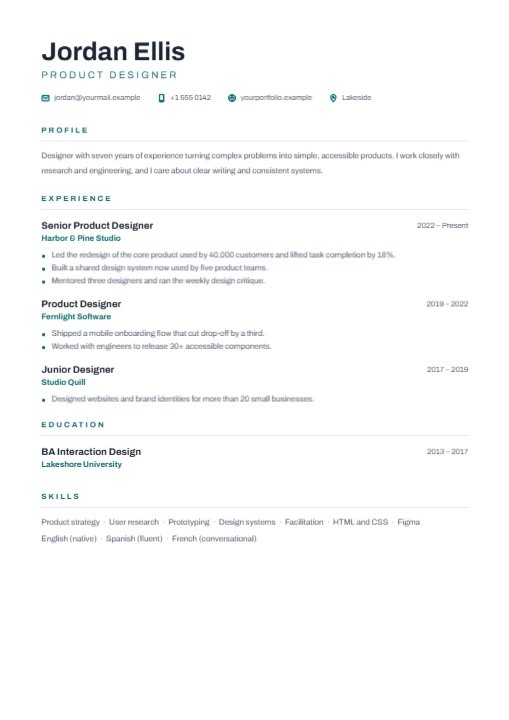
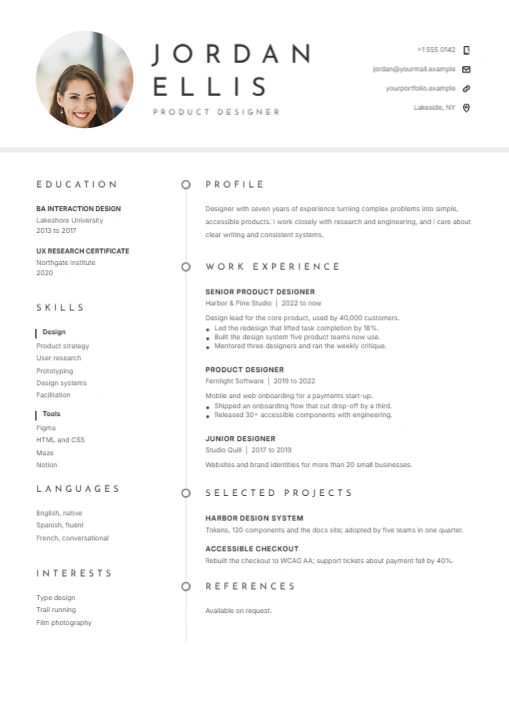
Resume template after the most-reviewed resume templates
A round photo, the name in light spaced capitals, contacts with icons
on the right, then two columns along a fine timeline: education,
skills, languages and interests on the left; profile, experience,
projects and references on the right.

diff --git a/frontend/scripts/templates/designs/modernResume.ts b/frontend/scripts/templates/designs/modernResume.ts
@@ -1,111 +1,164 @@
 import { DocBuilder, type PageBuilder } from '../kit'
+import type { IconName } from '../icons'
 import type { TemplateDesign } from '../registry'
 
-// Single column, one accent, clean sans and generous spacing: what recruiters and resume parsers read best.
+// After the most-reviewed resume templates: a round photo, the name in light, widely spaced capitals, the contacts on the
+// right with icons, then two columns on either side of a fine timeline (education and skills on the left, profile and
+// experience on the right), with small spaced headings in grey.
 const W = 794
 const H = 1123
-const X0 = 64
-const COL = W - X0 * 2
-const INK = '#1d2433'
-const MUTED = '#4f586a'
-const ACCENT = '#0f6b6b'
-const RULE = '#d9dee6'
+const L = 56
+const LEFT_W = 196
+const LINE_X = 290
+const R = 320
+const RIGHT_W = W - R - 56
+const INK = '#2f3033'
+const MUTED = '#5c5f66'
+const RULE = '#d7d9dd'
 const WHITE = '#ffffff'
 
 interface Job {
   role: string
   company: string
   dates: string
+  summary: string
   bullets: string[]
 }
 
 const JOBS: Job[] = [
   {
-    role: 'Senior Product Designer',
+    role: 'Senior product designer',
     company: 'Harbor & Pine Studio',
-    dates: '2022 – Present',
-    bullets: [
-      'Led the redesign of the core product used by 40,000 customers and lifted task completion by 18%.',
-      'Built a shared design system now used by five product teams.',
-      'Mentored three designers and ran the weekly design critique.',
-    ],
+    dates: '2022 to now',
+    summary: 'Design lead for the core product, used by 40,000 customers.',
+    bullets: ['Led the redesign that lifted task completion by 18%.', 'Built the design system five product teams now use.', 'Mentored three designers and ran the weekly critique.'],
   },
   {
-    role: 'Product Designer',
+    role: 'Product designer',
     company: 'Fernlight Software',
-    dates: '2019 – 2022',
-    bullets: ['Shipped a mobile onboarding flow that cut drop-off by a third.', 'Worked with engineers to release 30+ accessible components.'],
+    dates: '2019 to 2022',
+    summary: 'Mobile and web onboarding for a payments start-up.',
+    bullets: ['Shipped an onboarding flow that cut drop-off by a third.', 'Released 30+ accessible components with engineering.'],
   },
   {
-    role: 'Junior Designer',
+    role: 'Junior designer',
     company: 'Studio Quill',
-    dates: '2017 – 2019',
-    bullets: ['Designed websites and brand identities for more than 20 small businesses.'],
+    dates: '2017 to 2019',
+    summary: 'Websites and brand identities for more than 20 small businesses.',
+    bullets: [],
   },
 ]
 
-function heading(p: PageBuilder, y: number, label: string): number {
-  p.text({ name: `${label} heading`, x: X0, y, w: COL, text: label, font: 'archivo', bold: true, size: 12, color: ACCENT, on: WHITE, spacing: 260, upper: true, lines: 1 })
-  p.line({ name: `${label} rule`, x1: X0, y1: y + 24, x2: X0 + COL, y2: y + 24, color: RULE, width: 1 })
-  return y + 40
+function heading(p: PageBuilder, x: number, y: number, w: number, label: string, dot: boolean): void {
+  p.text({ name: `${label} heading`, x, y, w, text: label, font: 'josefin', size: 14, color: INK, on: WHITE, upper: true, spacing: 360, lines: 1 })
+  if (dot) p.circle({ name: `${label} dot`, cx: LINE_X, cy: y + 8, r: 6, fill: WHITE, stroke: INK, strokeWidth: 1.4 })
 }
 
 export const modernResume: TemplateDesign = {
   slug: 'modern-resume',
   title: 'Modern resume',
   category: 'resumes',
-  tags: ['resume', 'cv', 'job', 'career', 'a4', 'ats', 'minimal'],
-  description: 'A clean single-column A4 resume with one accent colour, easy for people and resume parsers to read: profile, experience, education and skills.',
+  tags: ['resume', 'cv', 'job', 'career', 'a4', 'photo', 'minimal', 'two column'],
+  description: 'An elegant two-column A4 resume with a round photo: the name in spaced capitals, contacts with icons, and experience along a fine timeline.',
   preset: 'a4',
-  build() {
+  async build() {
     const doc = new DocBuilder(this.slug, { width: W, height: H, unit: 'mm', presetId: 'a4' })
     const p = doc.page('Resume', { type: 'solid', color: WHITE })
 
-    // Header.
-    p.text({ name: 'Name', x: X0, y: 58, w: COL, text: 'Jordan Ellis', font: 'archivo', bold: true, size: 40, color: INK, on: WHITE, lh: 1.1, lines: 1 })
-    p.text({ name: 'Job title', x: X0, y: 108, w: COL, text: 'Product designer', font: 'archivo', size: 15, color: ACCENT, on: WHITE, spacing: 240, upper: true, lines: 1 })
-    const contacts = [
-      { icon: 'mail' as const, text: 'jordan@yourmail.example' },
-      { icon: 'phone' as const, text: '+1 555 0142' },
-      { icon: 'globe' as const, text: 'yourportfolio.example' },
-      { icon: 'pin' as const, text: 'Lakeside' },
+    // Header: photo, name, title, contacts.
+    await p.photo({ name: 'Photo', file: 'resume-portrait.webp', x: L, y: 48, w: 152, h: 152, mask: 'circle', focusX: 0.52, focusY: 0.1, zoom: 2.4 })
+    p.text({ name: 'Name', x: 236, y: 62, w: 330, text: 'Jordan\nEllis', font: 'josefin', size: 40, color: INK, on: WHITE, upper: true, spacing: 420, lh: 1.15, lines: 2 })
+    p.text({ name: 'Job title', x: 238, y: 168, w: 330, text: 'Product designer', font: 'josefin', size: 12, color: MUTED, on: WHITE, upper: true, spacing: 400, lines: 1 })
+    const contacts: { icon: IconName; text: string }[] = [
+      { icon: 'phone', text: '+1 555 0142' },
+      { icon: 'mail', text: 'jordan@yourmail.example' },
+      { icon: 'link', text: 'yourportfolio.example' },
+      { icon: 'pin', text: 'Lakeside, NY' },
     ]
-    let cx = X0
-    contacts.forEach((c) => {
-      p.icon({ name: `${c.text} icon`, icon: c.icon, x: cx, y: 146, size: 14, color: ACCENT, width: 2 })
-      const t = p.text({ name: c.text, x: cx + 20, y: 145, w: 220, text: c.text, font: 'archivo', size: 11.5, color: MUTED, on: WHITE, lines: 1 })
-      cx += 20 + Math.ceil(t.widest) + 26
+    contacts.forEach((c, i) => {
+      const y = 72 + i * 30
+      p.text({ name: c.text, x: 520, y, w: 190, text: c.text, font: 'inter', size: 10.5, color: MUTED, on: WHITE, align: 'right', lines: 1 })
+      p.icon({ name: `${c.text} icon`, icon: c.icon, x: 720, y: y - 1, size: 15, color: INK, width: 1.8 })
+    })
+    p.rect({ name: 'Header band', x: 0, y: 230, w: W, h: 8, fill: '#ececee' })
+
+    // The timeline between the columns.
+    p.line({ name: 'Timeline', x1: LINE_X, y1: 282, x2: LINE_X, y2: 1000, color: RULE, width: 1.2 })
+
+    // Left column.
+    let ly = 280
+    heading(p, L, ly, LEFT_W, 'Education', false)
+    ly += 40
+    const degrees = [
+      { degree: 'BA Interaction Design', school: 'Lakeshore University', years: '2013 to 2017' },
+      { degree: 'UX Research Certificate', school: 'Northgate Institute', years: '2020' },
+    ]
+    degrees.forEach((d, i) => {
+      p.text({ name: `Degree ${i + 1}`, x: L, y: ly, w: LEFT_W, text: d.degree, font: 'inter', bold: true, size: 10.5, color: INK, on: WHITE, upper: true, lines: 1 })
+      p.text({ name: `School ${i + 1}`, x: L, y: ly + 18, w: LEFT_W, text: d.school, font: 'inter', size: 10.5, color: MUTED, on: WHITE, lines: 1 })
+      p.text({ name: `Years ${i + 1}`, x: L, y: ly + 34, w: LEFT_W, text: d.years, font: 'inter', size: 10.5, color: MUTED, on: WHITE, lines: 1 })
+      ly += 66
     })
 
-    // Profile.
-    let y = heading(p, 196, 'Profile')
-    const profile = p.text({ name: 'Profile text', x: X0, y, w: COL, text: 'Designer with seven years of experience turning complex problems into simple, accessible products. I work closely with research and engineering, and I care about clear writing and consistent systems.', font: 'archivo', size: 12.5, color: MUTED, on: WHITE, lh: 1.6 })
+    ly += 20
+    heading(p, L, ly, LEFT_W, 'Skills', false)
+    ly += 40
+    const skills = [
+      { group: 'Design', items: 'Product strategy\nUser research\nPrototyping\nDesign systems\nFacilitation' },
+      { group: 'Tools', items: 'Figma\nHTML and CSS\nMaze\nNotion' },
+    ]
+    skills.forEach((s, i) => {
+      p.line({ name: `Skill marker ${i + 1}`, x1: L, y1: ly + 2, x2: L, y2: ly + 15, color: INK, width: 2 })
+      p.text({ name: `Skill group ${i + 1}`, x: L + 10, y: ly, w: LEFT_W - 10, text: s.group, font: 'inter', bold: true, size: 10.5, color: INK, on: WHITE, lines: 1 })
+      const t = p.text({ name: `Skills ${i + 1}`, x: L, y: ly + 22, w: LEFT_W, text: s.items, font: 'inter', size: 10.5, color: MUTED, on: WHITE, lh: 1.6 })
+      ly = t.bottom + 18
+    })
 
-    // Experience.
-    y = heading(p, profile.bottom + 30, 'Experience')
+    ly += 6
+    heading(p, L, ly, LEFT_W, 'Languages', false)
+    ly += 40
+    p.text({ name: 'Languages', x: L, y: ly, w: LEFT_W, text: 'English, native\nSpanish, fluent\nFrench, conversational', font: 'inter', size: 10.5, color: MUTED, on: WHITE, lh: 1.6, lines: 3 })
+    ly += 92
+
+    heading(p, L, ly, LEFT_W, 'Interests', false)
+    p.text({ name: 'Interests', x: L, y: ly + 40, w: LEFT_W, text: 'Type design\nTrail running\nFilm photography', font: 'inter', size: 10.5, color: MUTED, on: WHITE, lh: 1.6, lines: 3 })
+
+    // Right column.
+    let ry = 280
+    heading(p, R, ry, RIGHT_W, 'Profile', true)
+    ry += 40
+    const profile = p.text({ name: 'Profile text', x: R, y: ry, w: RIGHT_W, text: 'Designer with seven years of experience turning complex problems into simple, accessible products. I work closely with research and engineering, and I care about clear writing and consistent systems.', font: 'inter', size: 10.5, color: MUTED, on: WHITE, lh: 1.7 })
+    ry = profile.bottom + 36
+
+    heading(p, R, ry, RIGHT_W, 'Work experience', true)
+    ry += 40
     JOBS.forEach((job, i) => {
-      p.text({ name: `Role ${i + 1}`, x: X0, y, w: 440, text: job.role, font: 'archivo', bold: true, size: 15, color: INK, on: WHITE, lines: 1 })
-      p.text({ name: `Dates ${i + 1}`, x: X0 + 440, y: y + 2, w: COL - 440, text: job.dates, font: 'archivo', size: 12, color: MUTED, on: WHITE, align: 'right', lines: 1 })
-      p.text({ name: `Company ${i + 1}`, x: X0, y: y + 22, w: COL, text: job.company, font: 'archivo', bold: true, size: 12.5, color: ACCENT, on: WHITE, lines: 1 })
-      y += 48
+      p.text({ name: `Role ${i + 1}`, x: R, y: ry, w: RIGHT_W, text: job.role, font: 'inter', bold: true, size: 11, color: INK, on: WHITE, upper: true, spacing: 60, lines: 1 })
+      p.text({ name: `Company ${i + 1}`, x: R, y: ry + 19, w: RIGHT_W, text: `${job.company}  |  ${job.dates}`, font: 'inter', size: 10.5, color: MUTED, on: WHITE, lines: 1 })
+      const summary = p.text({ name: `Summary ${i + 1}`, x: R, y: ry + 42, w: RIGHT_W, text: job.summary, font: 'inter', size: 10.5, color: MUTED, on: WHITE, lh: 1.6 })
+      ry = summary.bottom + 4
       job.bullets.forEach((bullet, k) => {
-        p.circle({ name: `Bullet ${i + 1}.${k + 1}`, cx: X0 + 4, cy: y + 9, r: 2.4, fill: ACCENT })
-        const text = p.text({ name: `Achievement ${i + 1}.${k + 1}`, x: X0 + 16, y, w: COL - 16, text: bullet, font: 'archivo', size: 12.5, color: MUTED, on: WHITE, lh: 1.5 })
-        y = text.bottom + 6
+        p.circle({ name: `Bullet ${i + 1}.${k + 1}`, cx: R + 4, cy: ry + 8.5, r: 2, fill: INK })
+        const t = p.text({ name: `Achievement ${i + 1}.${k + 1}`, x: R + 14, y: ry, w: RIGHT_W - 14, text: bullet, font: 'inter', size: 10.5, color: MUTED, on: WHITE, lh: 1.6 })
+        ry = t.bottom + 2
       })
-      y += 14
+      ry += 22
     })
 
-    // Education.
-    y = heading(p, y + 6, 'Education')
-    p.text({ name: 'Degree', x: X0, y, w: 440, text: 'BA Interaction Design', font: 'archivo', bold: true, size: 15, color: INK, on: WHITE, lines: 1 })
-    p.text({ name: 'Study dates', x: X0 + 440, y: y + 2, w: COL - 440, text: '2013 – 2017', font: 'archivo', size: 12, color: MUTED, on: WHITE, align: 'right', lines: 1 })
-    p.text({ name: 'School', x: X0, y: y + 22, w: COL, text: 'Lakeshore University', font: 'archivo', bold: true, size: 12.5, color: ACCENT, on: WHITE, lines: 1 })
+    heading(p, R, ry + 4, RIGHT_W, 'Selected projects', true)
+    ry += 44
+    const projects = [
+      { name: 'Harbor design system', text: 'Tokens, 120 components and the docs site; adopted by five teams in one quarter.' },
+      { name: 'Accessible checkout', text: 'Rebuilt the checkout to WCAG AA; support tickets about payment fell by 40%.' },
+    ]
+    projects.forEach((pr, i) => {
+      p.text({ name: `Project ${i + 1}`, x: R, y: ry, w: RIGHT_W, text: pr.name, font: 'inter', bold: true, size: 11, color: INK, on: WHITE, upper: true, spacing: 60, lines: 1 })
+      const t = p.text({ name: `Project ${i + 1} text`, x: R, y: ry + 20, w: RIGHT_W, text: pr.text, font: 'inter', size: 10.5, color: MUTED, on: WHITE, lh: 1.6 })
+      ry = t.bottom + 16
+    })
 
-    // Skills.
-    y = heading(p, y + 72, 'Skills')
-    p.text({ name: 'Skills', x: X0, y, w: COL, text: 'Product strategy  ·  User research  ·  Prototyping  ·  Design systems  ·  Facilitation  ·  HTML and CSS  ·  Figma', font: 'archivo', size: 12.5, color: MUTED, on: WHITE, lh: 1.6, lines: 1 })
-    p.text({ name: 'Languages', x: X0, y: y + 26, w: COL, text: 'English (native)  ·  Spanish (fluent)  ·  French (conversational)', font: 'archivo', size: 12.5, color: MUTED, on: WHITE, lines: 1 })
+    heading(p, R, ry + 10, RIGHT_W, 'References', true)
+    p.text({ name: 'References', x: R, y: ry + 50, w: RIGHT_W, text: 'Available on request.', font: 'inter', size: 10.5, color: MUTED, on: WHITE, lines: 1 })
     return doc
   },
 }
